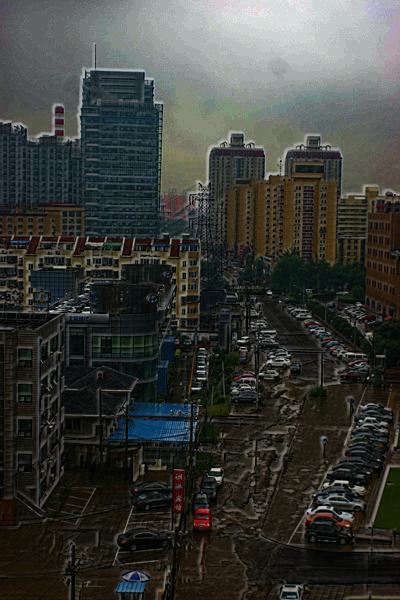
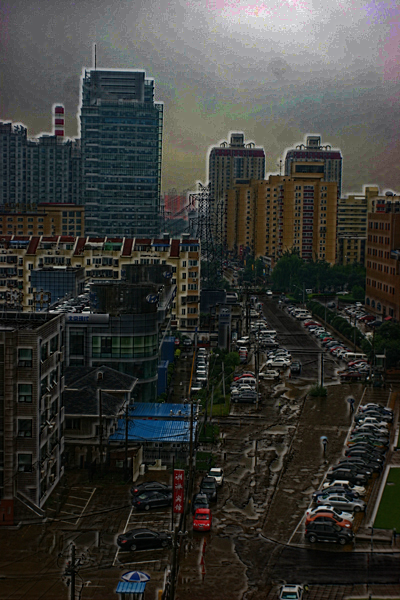
add edge_detection

Changed region(s): [[0.3, 0.0, 1.0, 0.15]]

diff --git a/dehaze.py b/dehaze.py
@@ -57,13 +57,38 @@ def TransmissionEstimate(im, A, sz):
     return transmission
 
 
-def TransmissionRefine(im, et, edge_threshold=0.1):
+def edge_detection(im):
+    img = np.zeros(im.shape, im.dtype)
+    # without canny edge detection
+    for y in range(1, im.shape[0] - 1):
+        for x in range(1, im.shape[1] - 1):
+            a = int(im[y-1, x-1])
+            b = int(im[y-1, x])
+            c = int(im[y-1, x+1])
+            d = int(im[y, x-1])
+            mid = int(im[y, x])
+            e = int(im[y, x+1])
+            f = int(im[y+1, x-1])
+            g = int(im[y+1, x])
+            h = int(im[y+1, x+1])
+            tmp = [a-mid, b-mid, c-mid, d-mid, h-mid,
+                   f-mid, g-mid, e-mid, a-h, c-f, b-g, d-e]
+            abs_tmp = [abs(i) for i in tmp]
+            max_tmp = max(abs_tmp)
+            img[y, x] = max_tmp
+    return img
+
+
+def TransmissionRefine(im, et, et3, edge_threshold=0.1):
     gray = cv2.cvtColor(im, cv2.COLOR_BGR2GRAY)
-    edges = cv2.Canny(gray, 100, 200)
+    edges = edge_detection(gray)
     edges = edges / 255.0  # Normalize edges to [0, 1]
+    # cv2.imshow("edges", edges)
+    # cv2.waitKey()
+    # cv2.destroyAllWindows()
 
     # Initialize transmission refinement
-    t_refined = et.copy()
+    t_refined = np.zeros_like(et)
     rows, cols = et.shape
 
     # low-pass filter kernel
@@ -76,7 +101,12 @@ def TransmissionRefine(im, et, edge_threshold=0.1):
     # show the low-pass filter image
 
     # mean filter
+    # fix_gray = gray/255.0
     mean_filter = cv2.blur(et, (3, 3))
+    # cv2.imshow("mean_filter", mean_filter)
+    # cv2.imshow("low_pass_filter", low_pass_filter)
+    # cv2.waitKey()
+    # cv2.destroyAllWindows()
     # show the mean filter image
     for i in range(rows):
         for j in range(cols):
@@ -144,15 +174,22 @@ if __name__ == '__main__':
 
     I = src.astype('float64')/255
 
-    dark = dark_channel_prior(I, 15)
+    dark15 = DarkChannel(I, 15)
+    dark3 = DarkChannel(I, 3)
+    dark1 = DarkChannel(I, 1)
+    dark = DarkChannel(I, 1)
     A = AtmLight(I, dark)
-    te = TransmissionEstimate(I, A, 3)
-    t = TransmissionRefine(src, te)
+    te = TransmissionEstimate(I, A, 1)
+    te3 = TransmissionEstimate(I, A, 3)
+    t = TransmissionRefine(src, te, te3)
     t_old = TransmissionRefine_old(src, te)
-    J = Recover(I, t, A, 0.1)
-    J_old = Recover(I, t_old, A, 0.1)
+    J = Recover(I, t, A, 0.01)
+    J_old = Recover(I, t_old, A, 0.01)
 
-    cv2.imshow("dark", dark)
+    # cv2.imshow("dark", dark)
+    cv2.imshow("dark15", dark15)
+    cv2.imshow("dark3", dark3)
+    cv2.imshow("dark1", dark1)
     cv2.imshow("t", t)
     cv2.imshow("t_old", t_old)
     cv2.imshow('I', src)
